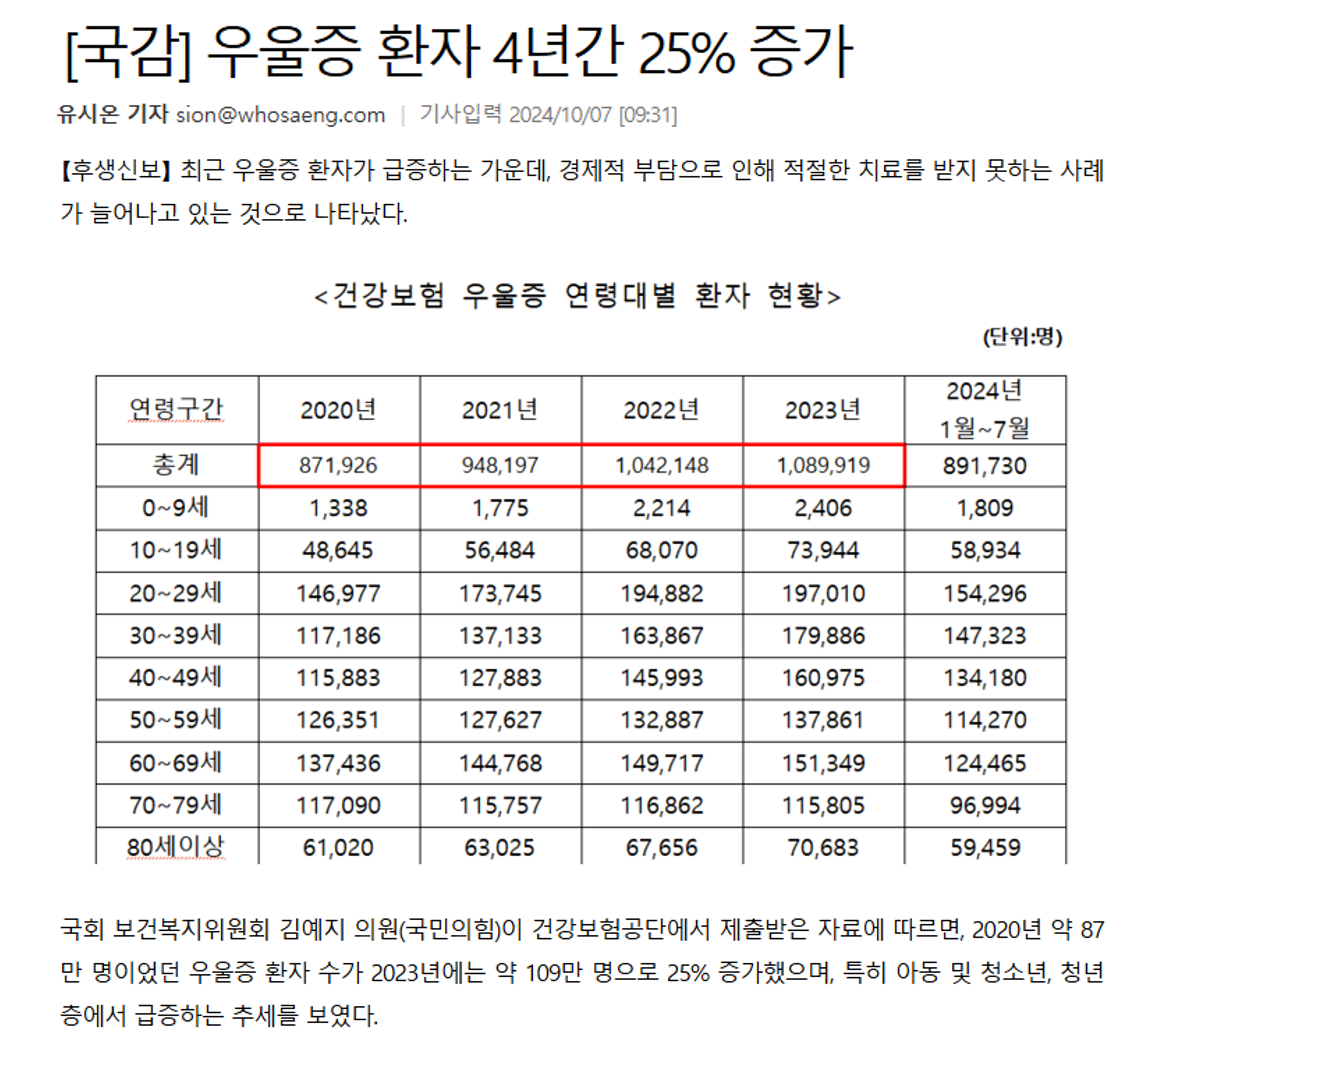
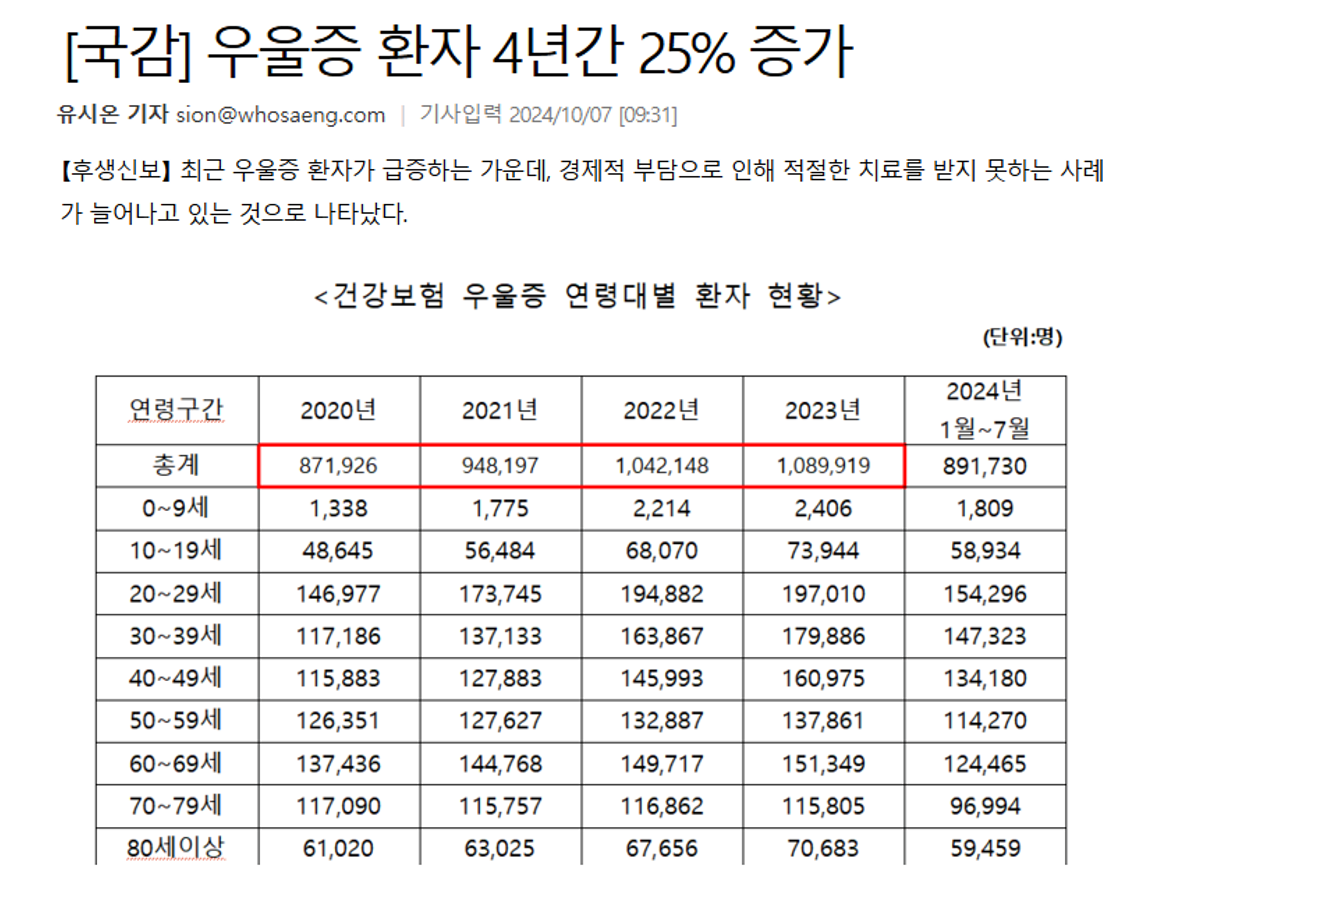
update

Changed region(s): [[0.031, 0.0, 0.8374, 0.9559]]

diff --git a/README.md b/README.md
@@ -20,9 +20,10 @@
 
 본 프로젝트는 ISP 알고리즘을 활용한 VGA 영상처리 모션 인식 게임입니다. 
 
-현대 사회는 지속적으로 우울증 환자가 증가하고 있습니다.
+현대 사회는 지속적으로 우울증 환자가 증가하고 있습니다. 
+건강보험공단에서 제출받은 자료에 따르면, 2020년 약 87만 명이었던 우울증 환자 수가 2023년에는 약 109만 명으로 25% 증가했으며, 특히 아동 및 청소년, 청년층에서 급증하는 추세를 보였습니다.
 
-<img src="/History/img/another/img_7.png" width=600 >|
+<img src="/History/img/another/img_7.png" width=400 >|
 --|
 
 연구 결과에 따르면 능동적인 활동은 우울감이 감소시키고 스트레스 해소에 도움이 된다고 합니다.
